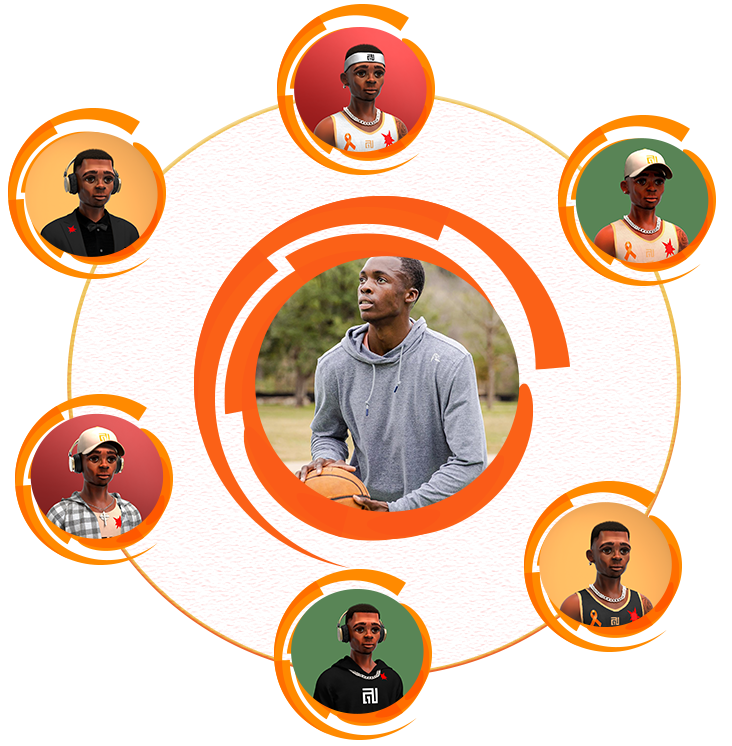
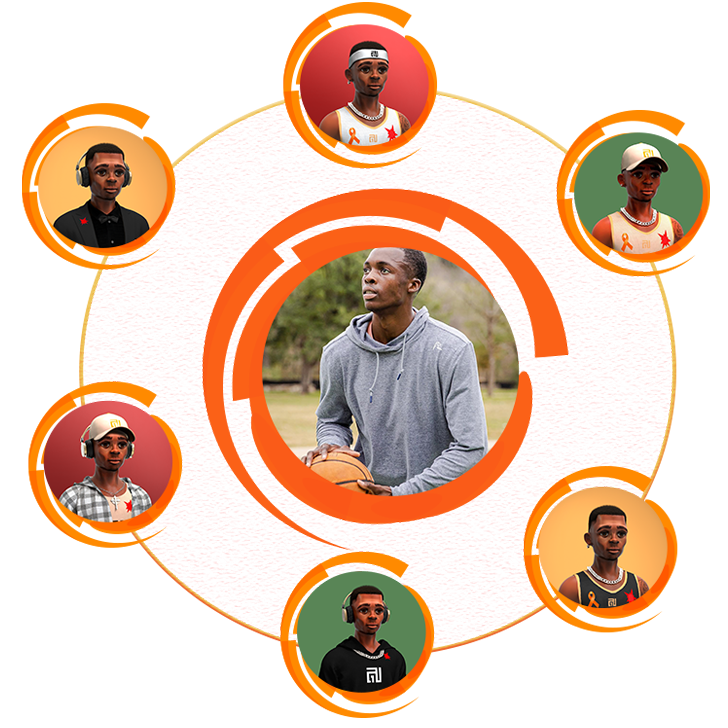
circle images and SEO changes

diff --git a/phillip-russell/index.html b/phillip-russell/index.html
@@ -110,7 +110,7 @@
             <div class="content-box1b">
               <div id="yellow-btn1">
                 <div class="yellow-btn-box">
-                  <span style="padding-left: 17px;" class="g-txt" id="items-rem">25/25</span><br>
+                  <span style="padding-left: 38px;" class="g-txt" id="items-rem">25/25</span><br>
                   <div style="padding-left: 17px;" class="b-txt"> Available</div><i class="bi bi-dash-circle-fill"
                     id="sub"></i>&nbsp;<span id="qty">1</span>&nbsp;<i class="bi bi-plus-circle-fill"
                     id="add"></i>&nbsp;<span id="sol-amt">2 SOL</span>
@@ -358,7 +358,7 @@
 
     $mintBtn.click(function (e) {
       const quantity = parseInt($qty.text());
-      sol.mintNft(mintAddress,quantity, function (res) {
+      sol.mintNft(mintAddress, quantity, function (res) {
         alert(res.message);
       })
     });

diff --git a/andrew-jones/index.html b/andrew-jones/index.html
@@ -110,7 +110,7 @@
             <div class="content-box1b">
               <div id="yellow-btn1">
                 <div class="yellow-btn-box">
-                  <span style="padding-left: 17px;" class="g-txt" id="items-rem">11/11</span><br>
+                  <span style="padding-left: 96px;" class="g-txt" id="items-rem">11/11</span><br>
                   <div style="padding-left: 17px;" class="b-txt"> Available</div><i class="bi bi-dash-circle-fill"
                     id="sub"></i>&nbsp;<span id="qty">1</span>&nbsp;<i class="bi bi-plus-circle-fill"
                     id="add"></i>&nbsp;<span id="sol-amt">9.3 SOL</span>

diff --git a/bradyn-swinson/assets/css/style.css b/bradyn-swinson/assets/css/style.css
@@ -31,7 +31,7 @@ body {
 .content-box1b{float: left; vertical-align: middle; display: flex;justify-content: center; margin:15% 0px 15% 0px; }
 .content-box2{width:100%; float: left;}
 .content-box3{width:100%; float: left; }
-.content-box3 img.f2{    object-fit: contain;  height: 66vh;}
+.content-box3 img.f2{    object-fit: contain;  height: 70vh;}
 .mid-pic {
 	position: absolute;
 	top: 190px;
